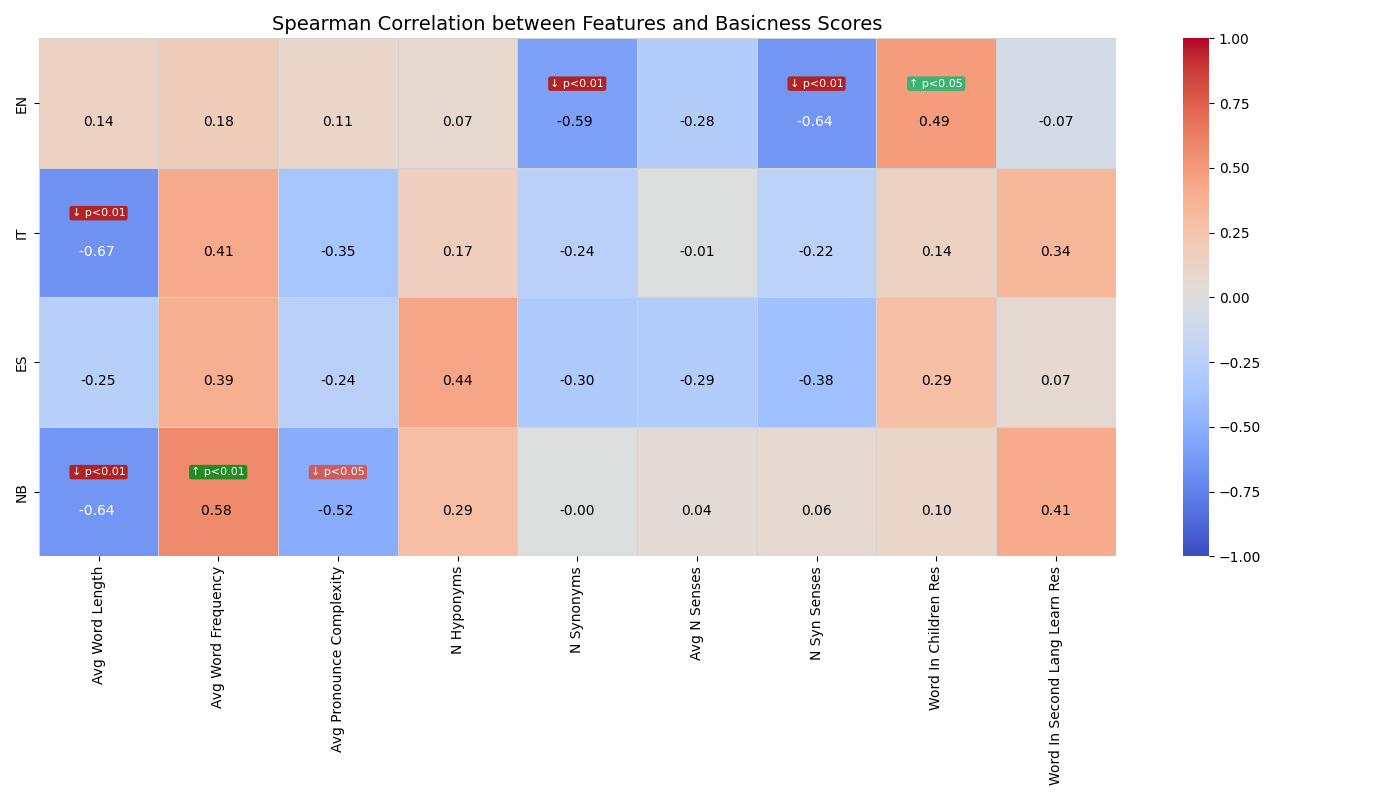
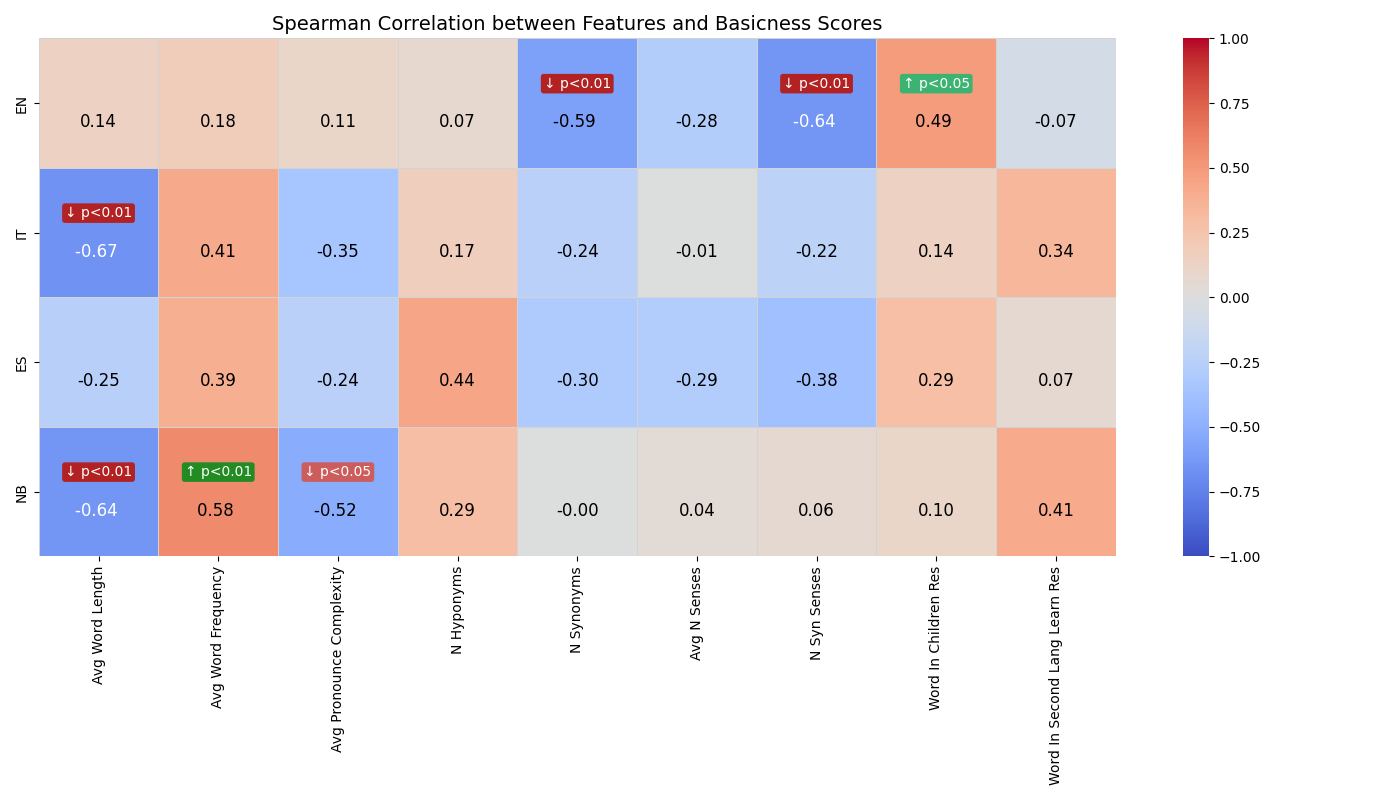
fix: increase font sizes for better readability in correlation plots

diff --git a/src/analysis/correlation.py b/src/analysis/correlation.py
@@ -359,7 +359,7 @@ def calculate_correlations(filter_by_relevant_lang=True):
                     ha="center",  # Center align horizontally
                     va="center",  # Vertically align relative to its position
                     color=text_color,
-                    fontsize=10,
+                    fontsize=12,
                 )
 
                 # If there's a pill, draw it below the base text
@@ -371,7 +371,7 @@ def calculate_correlations(filter_by_relevant_lang=True):
                         ha="center",  # Center align horizontally
                         va="center",  # Vertically align relative to its position
                         color="white",
-                        fontsize=8,
+                        fontsize=10,
                         bbox=dict(
                             boxstyle="round,pad=0.2",
                             facecolor=pill_color,
